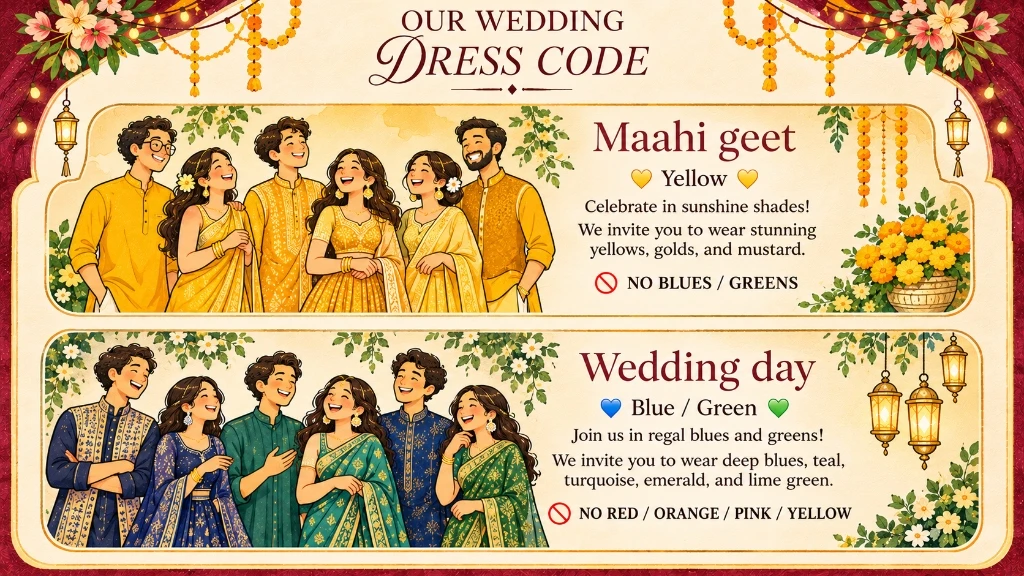
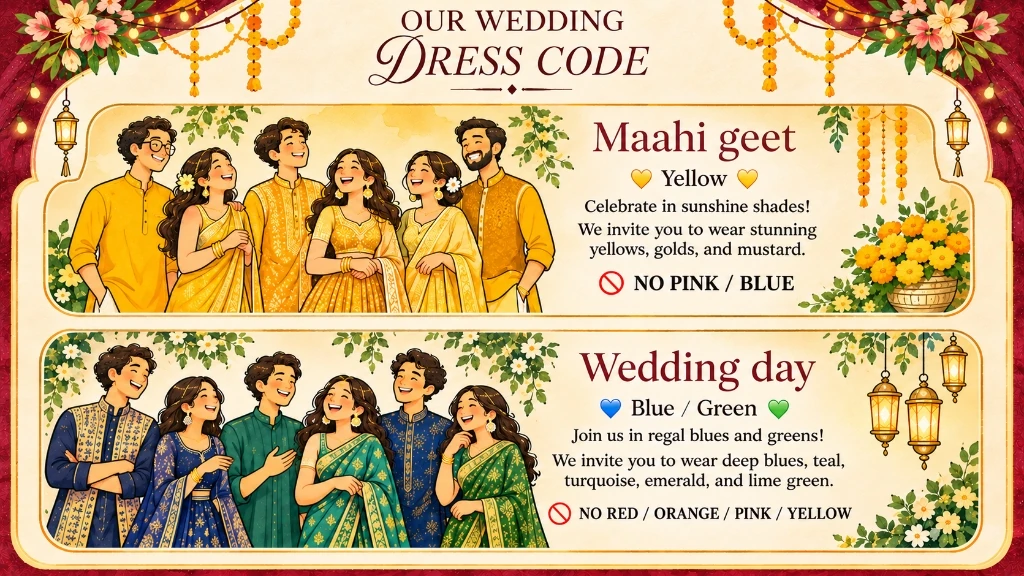
Update wedding dress code illustration and color rules (No Pink/Blue for Maahi Geet)

diff --git a/index.html b/index.html
@@ -733,8 +733,8 @@
 			<div class="im-dresscode-card-wrap">
 				<div class="im-dresscode-card-frame">
 					<picture>
-						<source srcset="assets/dress-code.webp?v=2" type="image/webp">
-						<img src="assets/dress-code.jpg?v=2" alt="Our Wedding Dress Code - Maahi Geet in Yellow, Wedding Day in Blue and Green" class="im-dresscode-img" loading="lazy" decoding="async">
+						<source srcset="assets/dress-code.webp?v=3" type="image/webp">
+						<img src="assets/dress-code.jpg?v=3" alt="Our Wedding Dress Code - Maahi Geet in Yellow, Wedding Day in Blue and Green" class="im-dresscode-img" loading="lazy" decoding="async">
 					</picture>
 				</div>
 			</div>
@@ -751,7 +751,7 @@
 					<p class="im-dresscode-pill-desc">Celebrate in sunshine shades! We invite you to wear stunning yellows, golds, and mustard.</p>
 					<div class="im-dresscode-pill-prohibit">
 						<span class="im-dresscode-prohibit-icon" aria-hidden="true">&#128683;</span>
-						<span>No Blues / Greens</span>
+						<span>No Pink / Blue</span>
 					</div>
 				</div>
 
